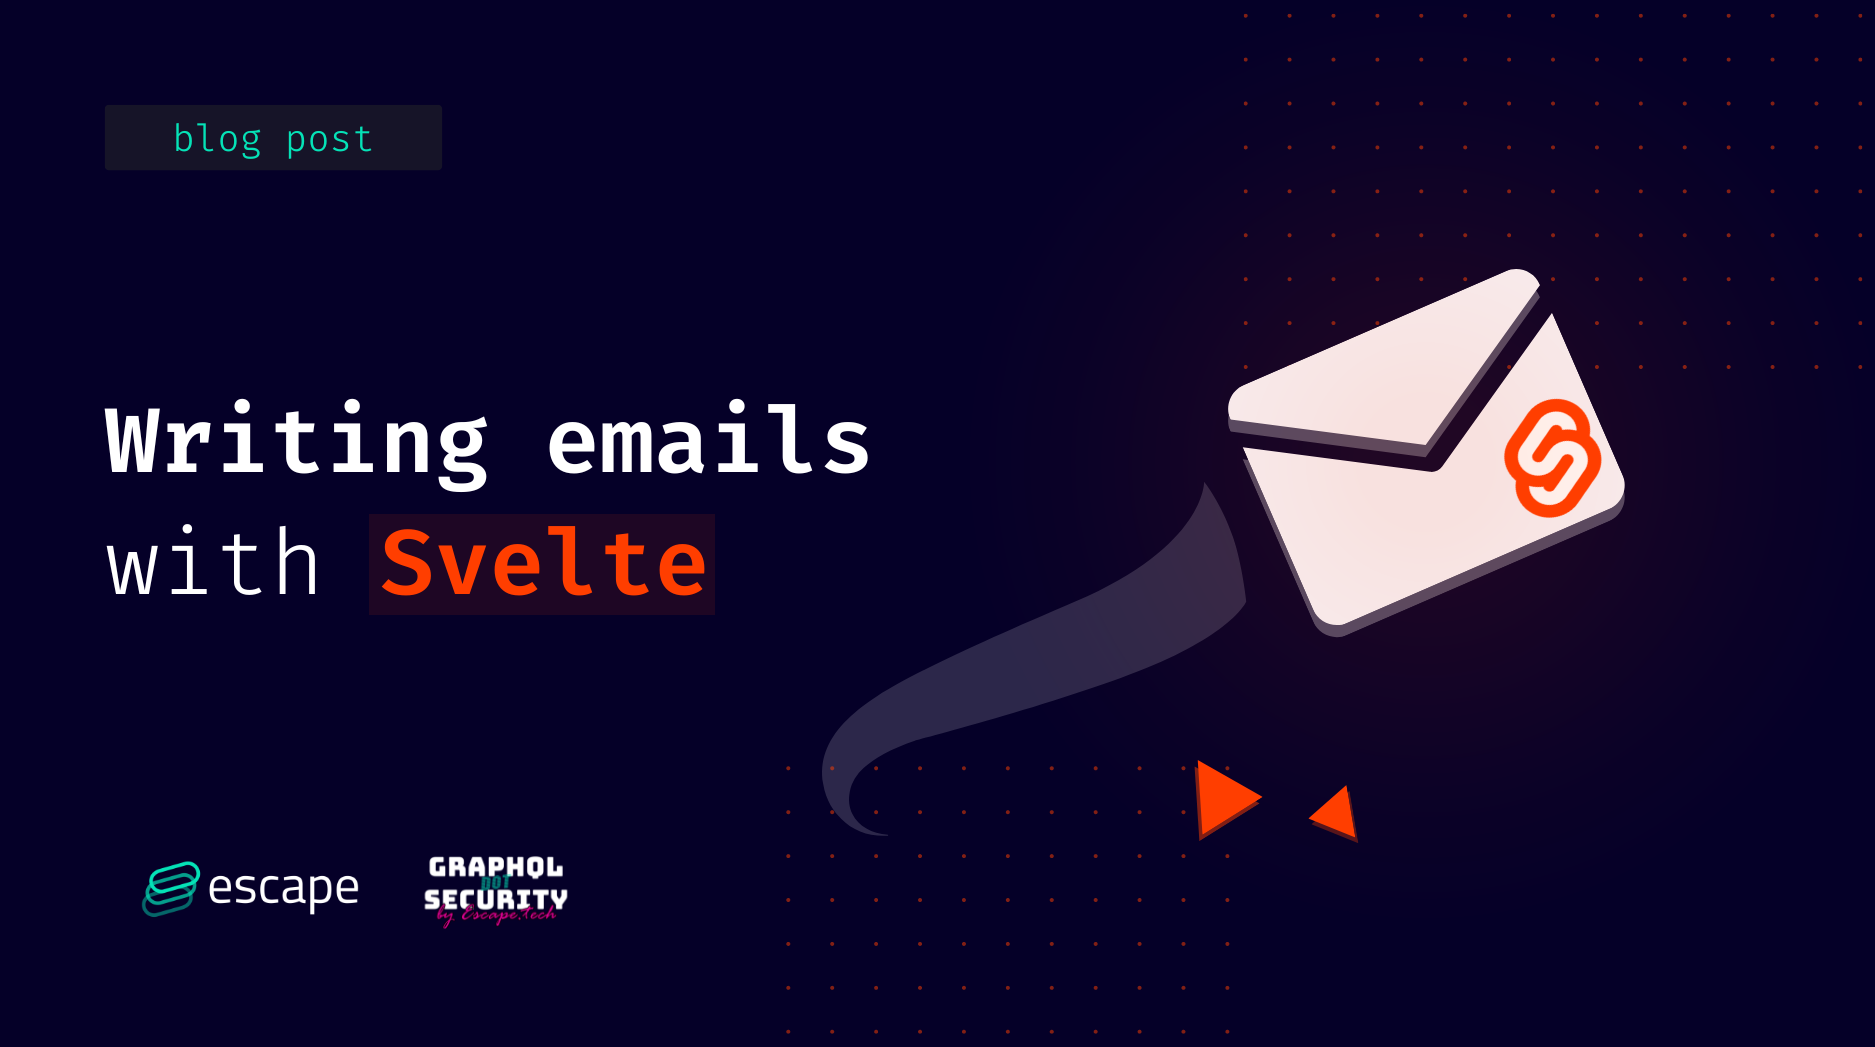
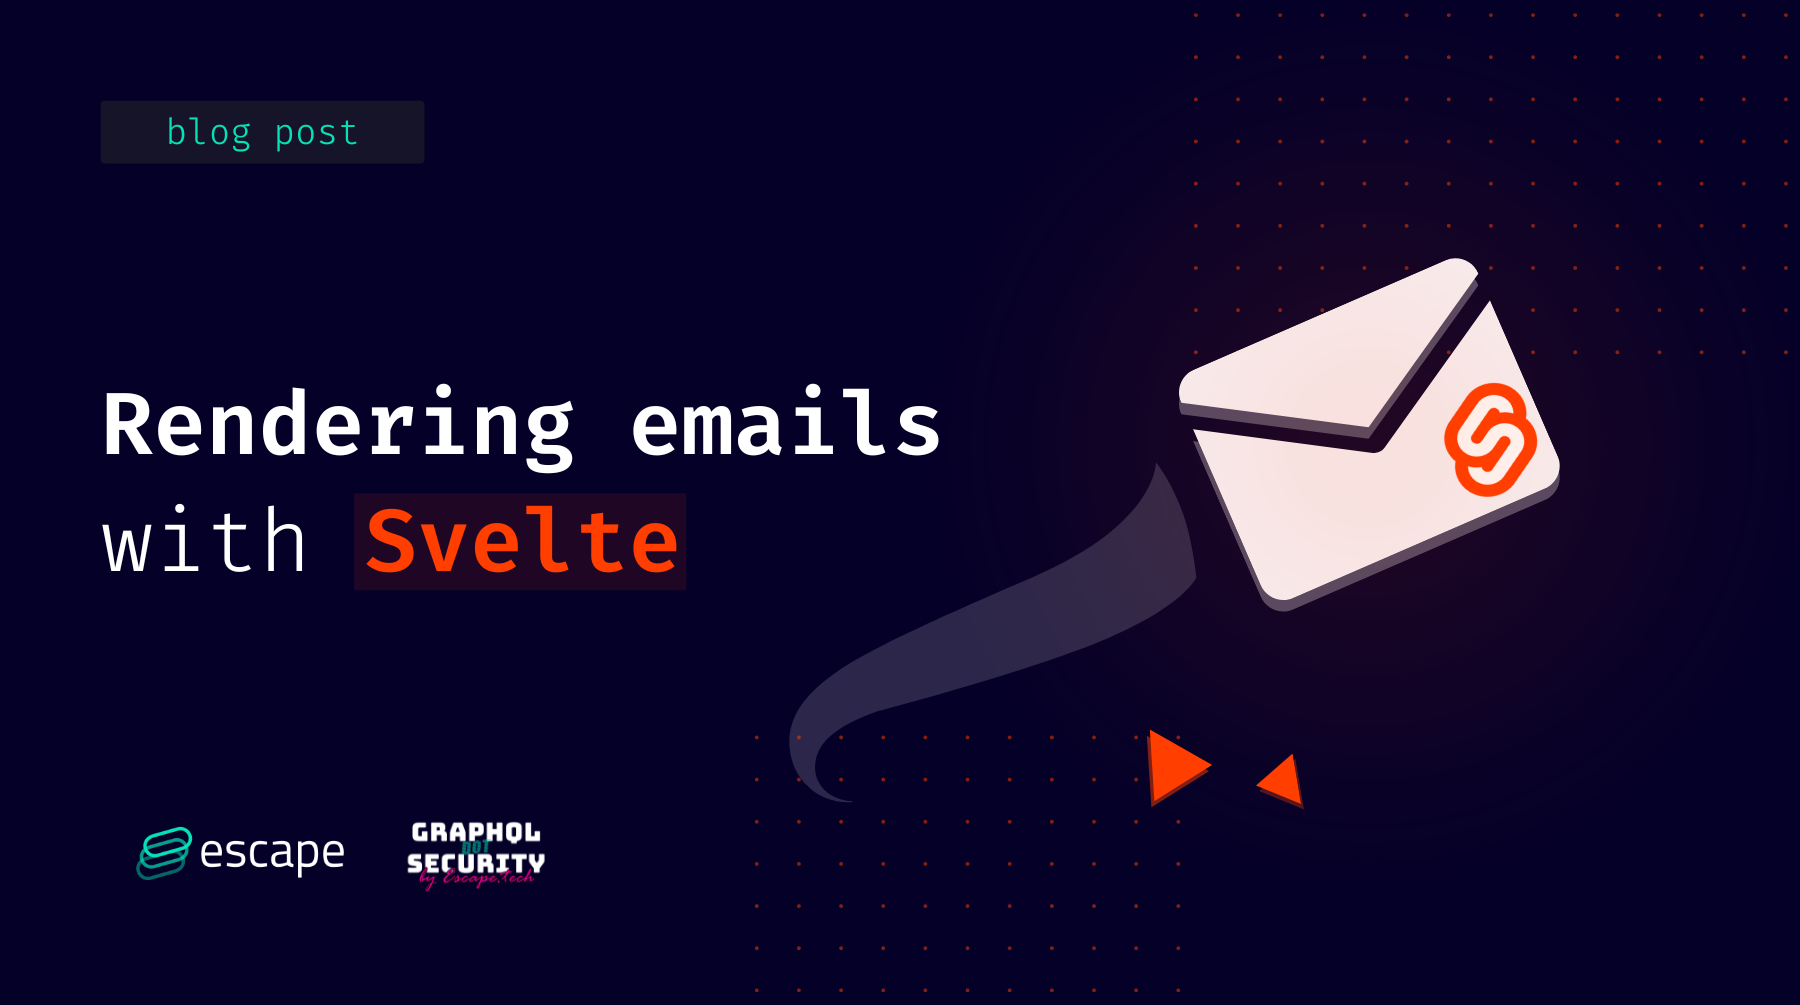
style: changed article title

diff --git a/README.md b/README.md
@@ -1,6 +1,6 @@
-![Writing emails with Svelte](./docs/cover.png)
+![Rendering emails with Svelte](./docs/cover.png)
 
-# Writing emails with Svelte
+# Rendering emails with Svelte
 
 **Emails are the cornerstone of automated internet communication.** Create an account on a website? Email. Receive an invoice? Email. Sign up for an event? Email. As a developer, you will need to send emails at some point. And you will end up working with some of the most legacy web technologies.
 
